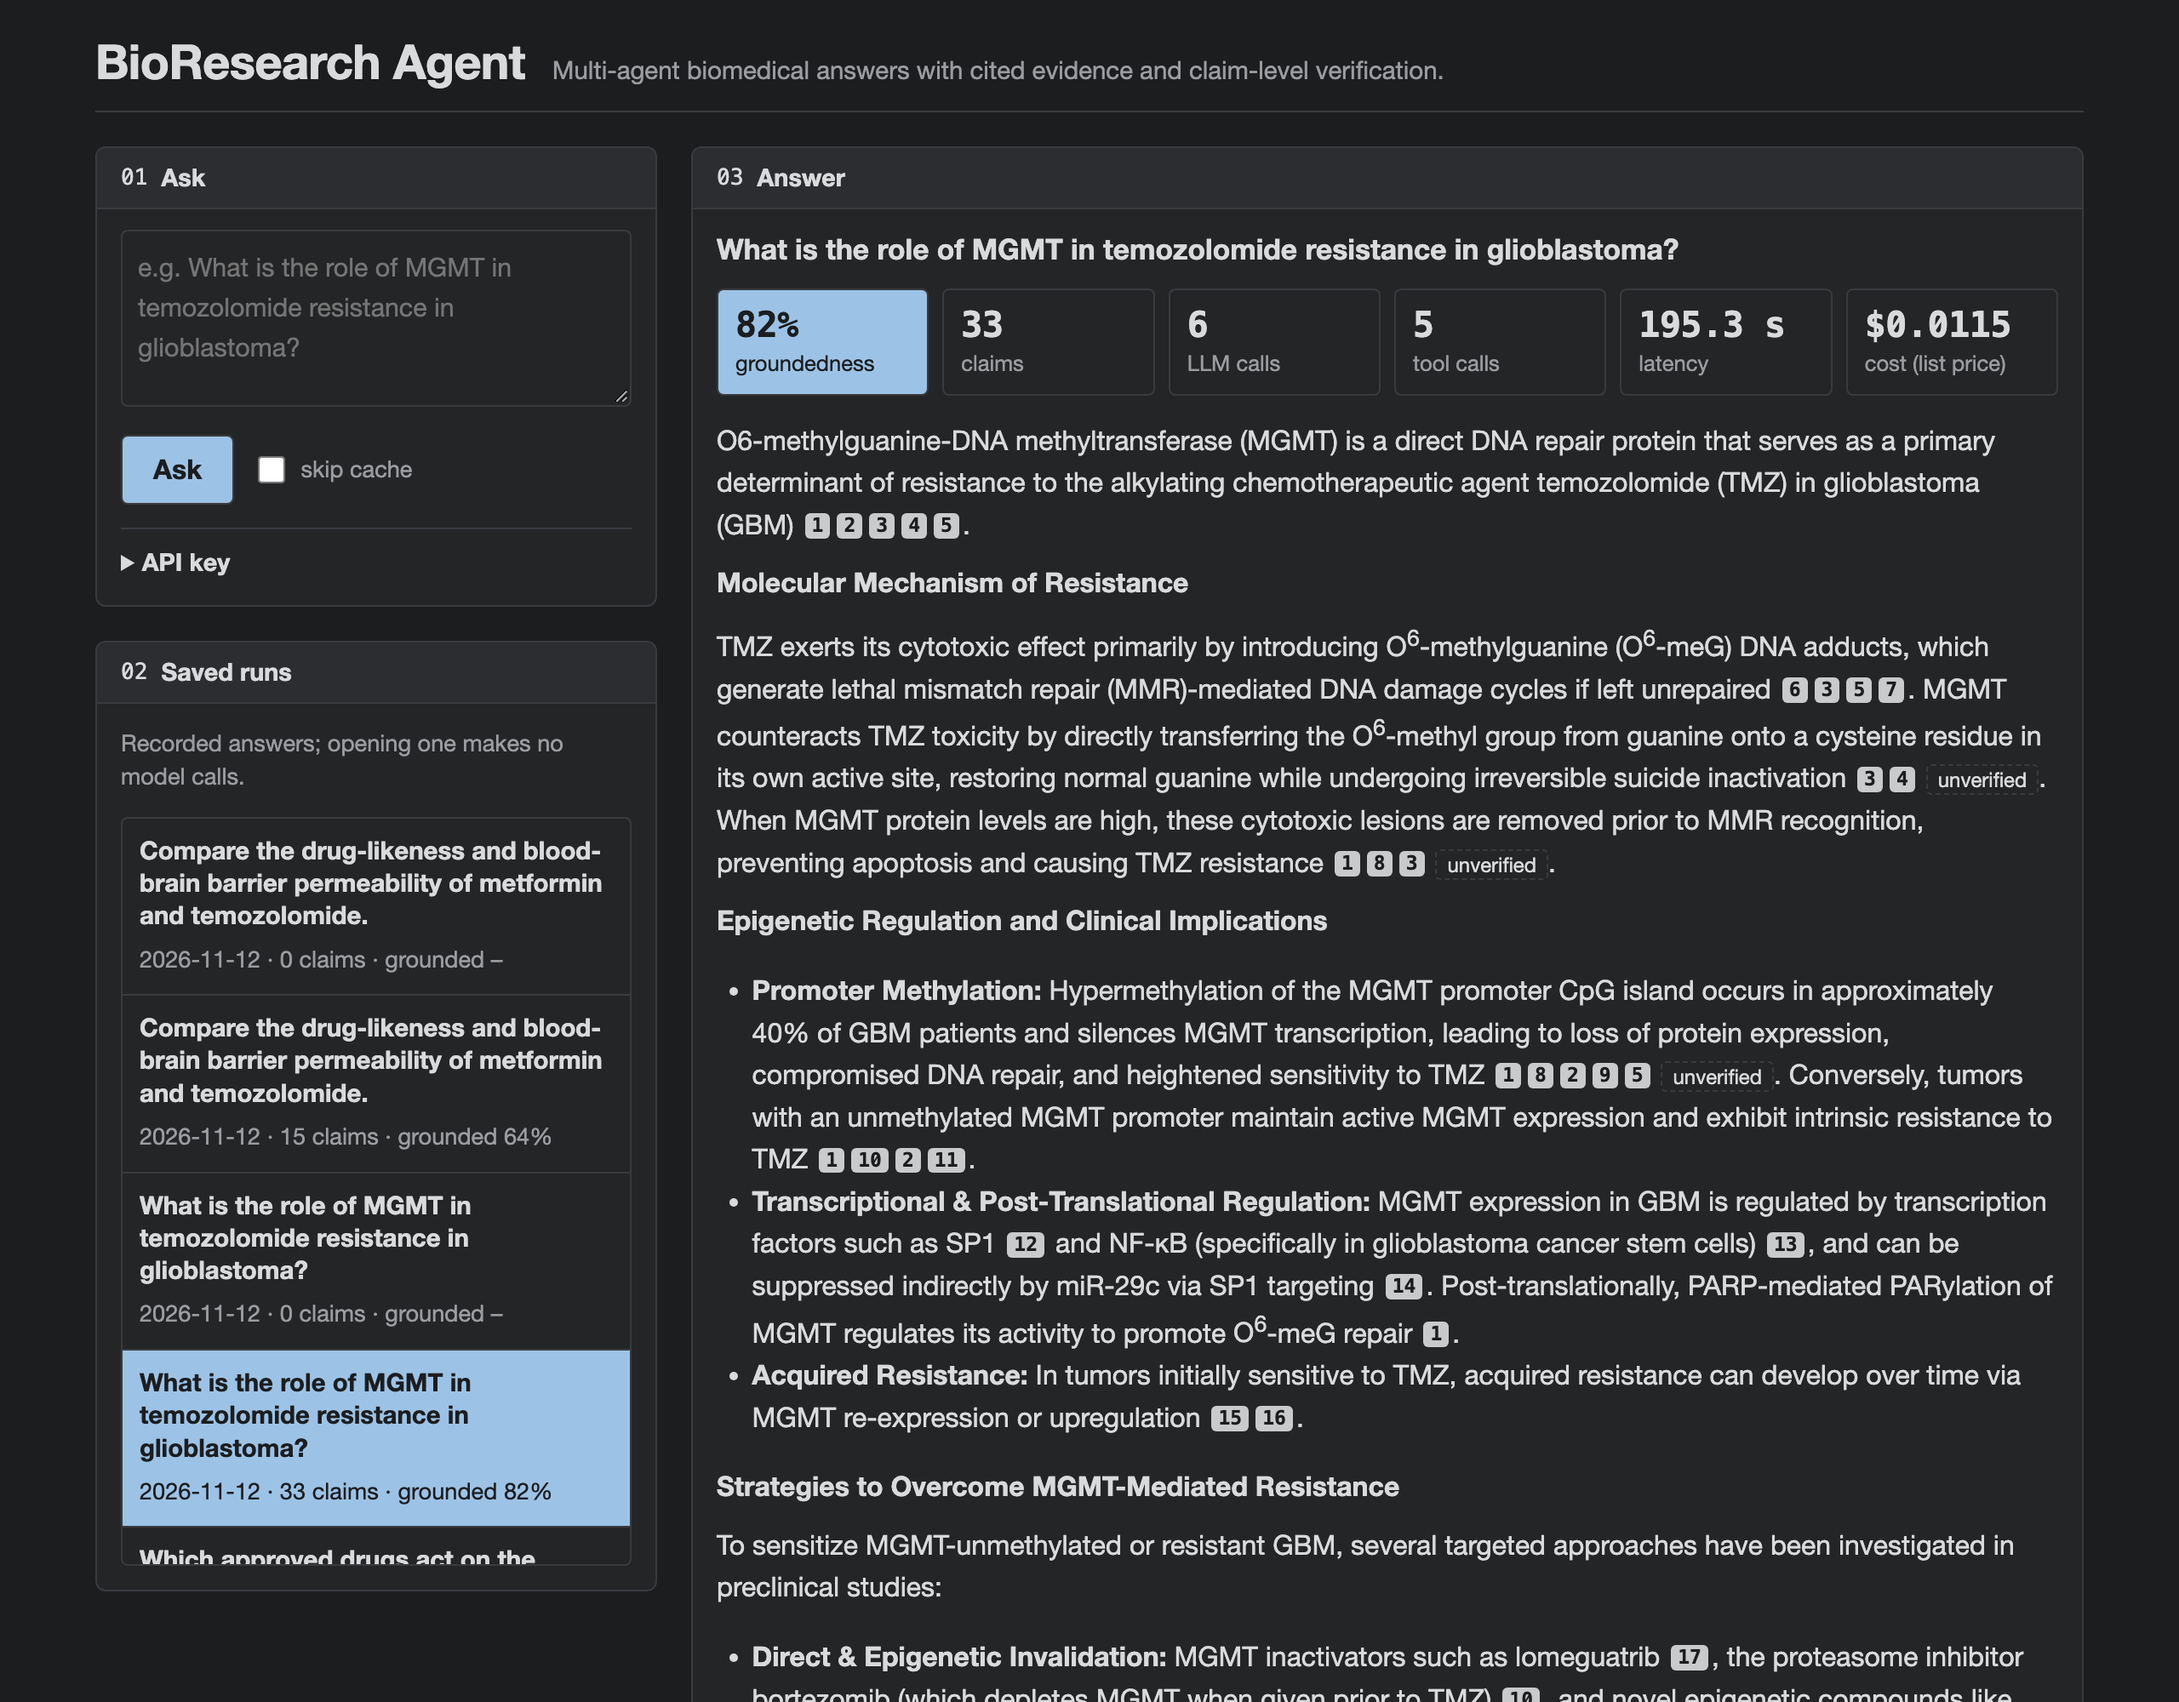
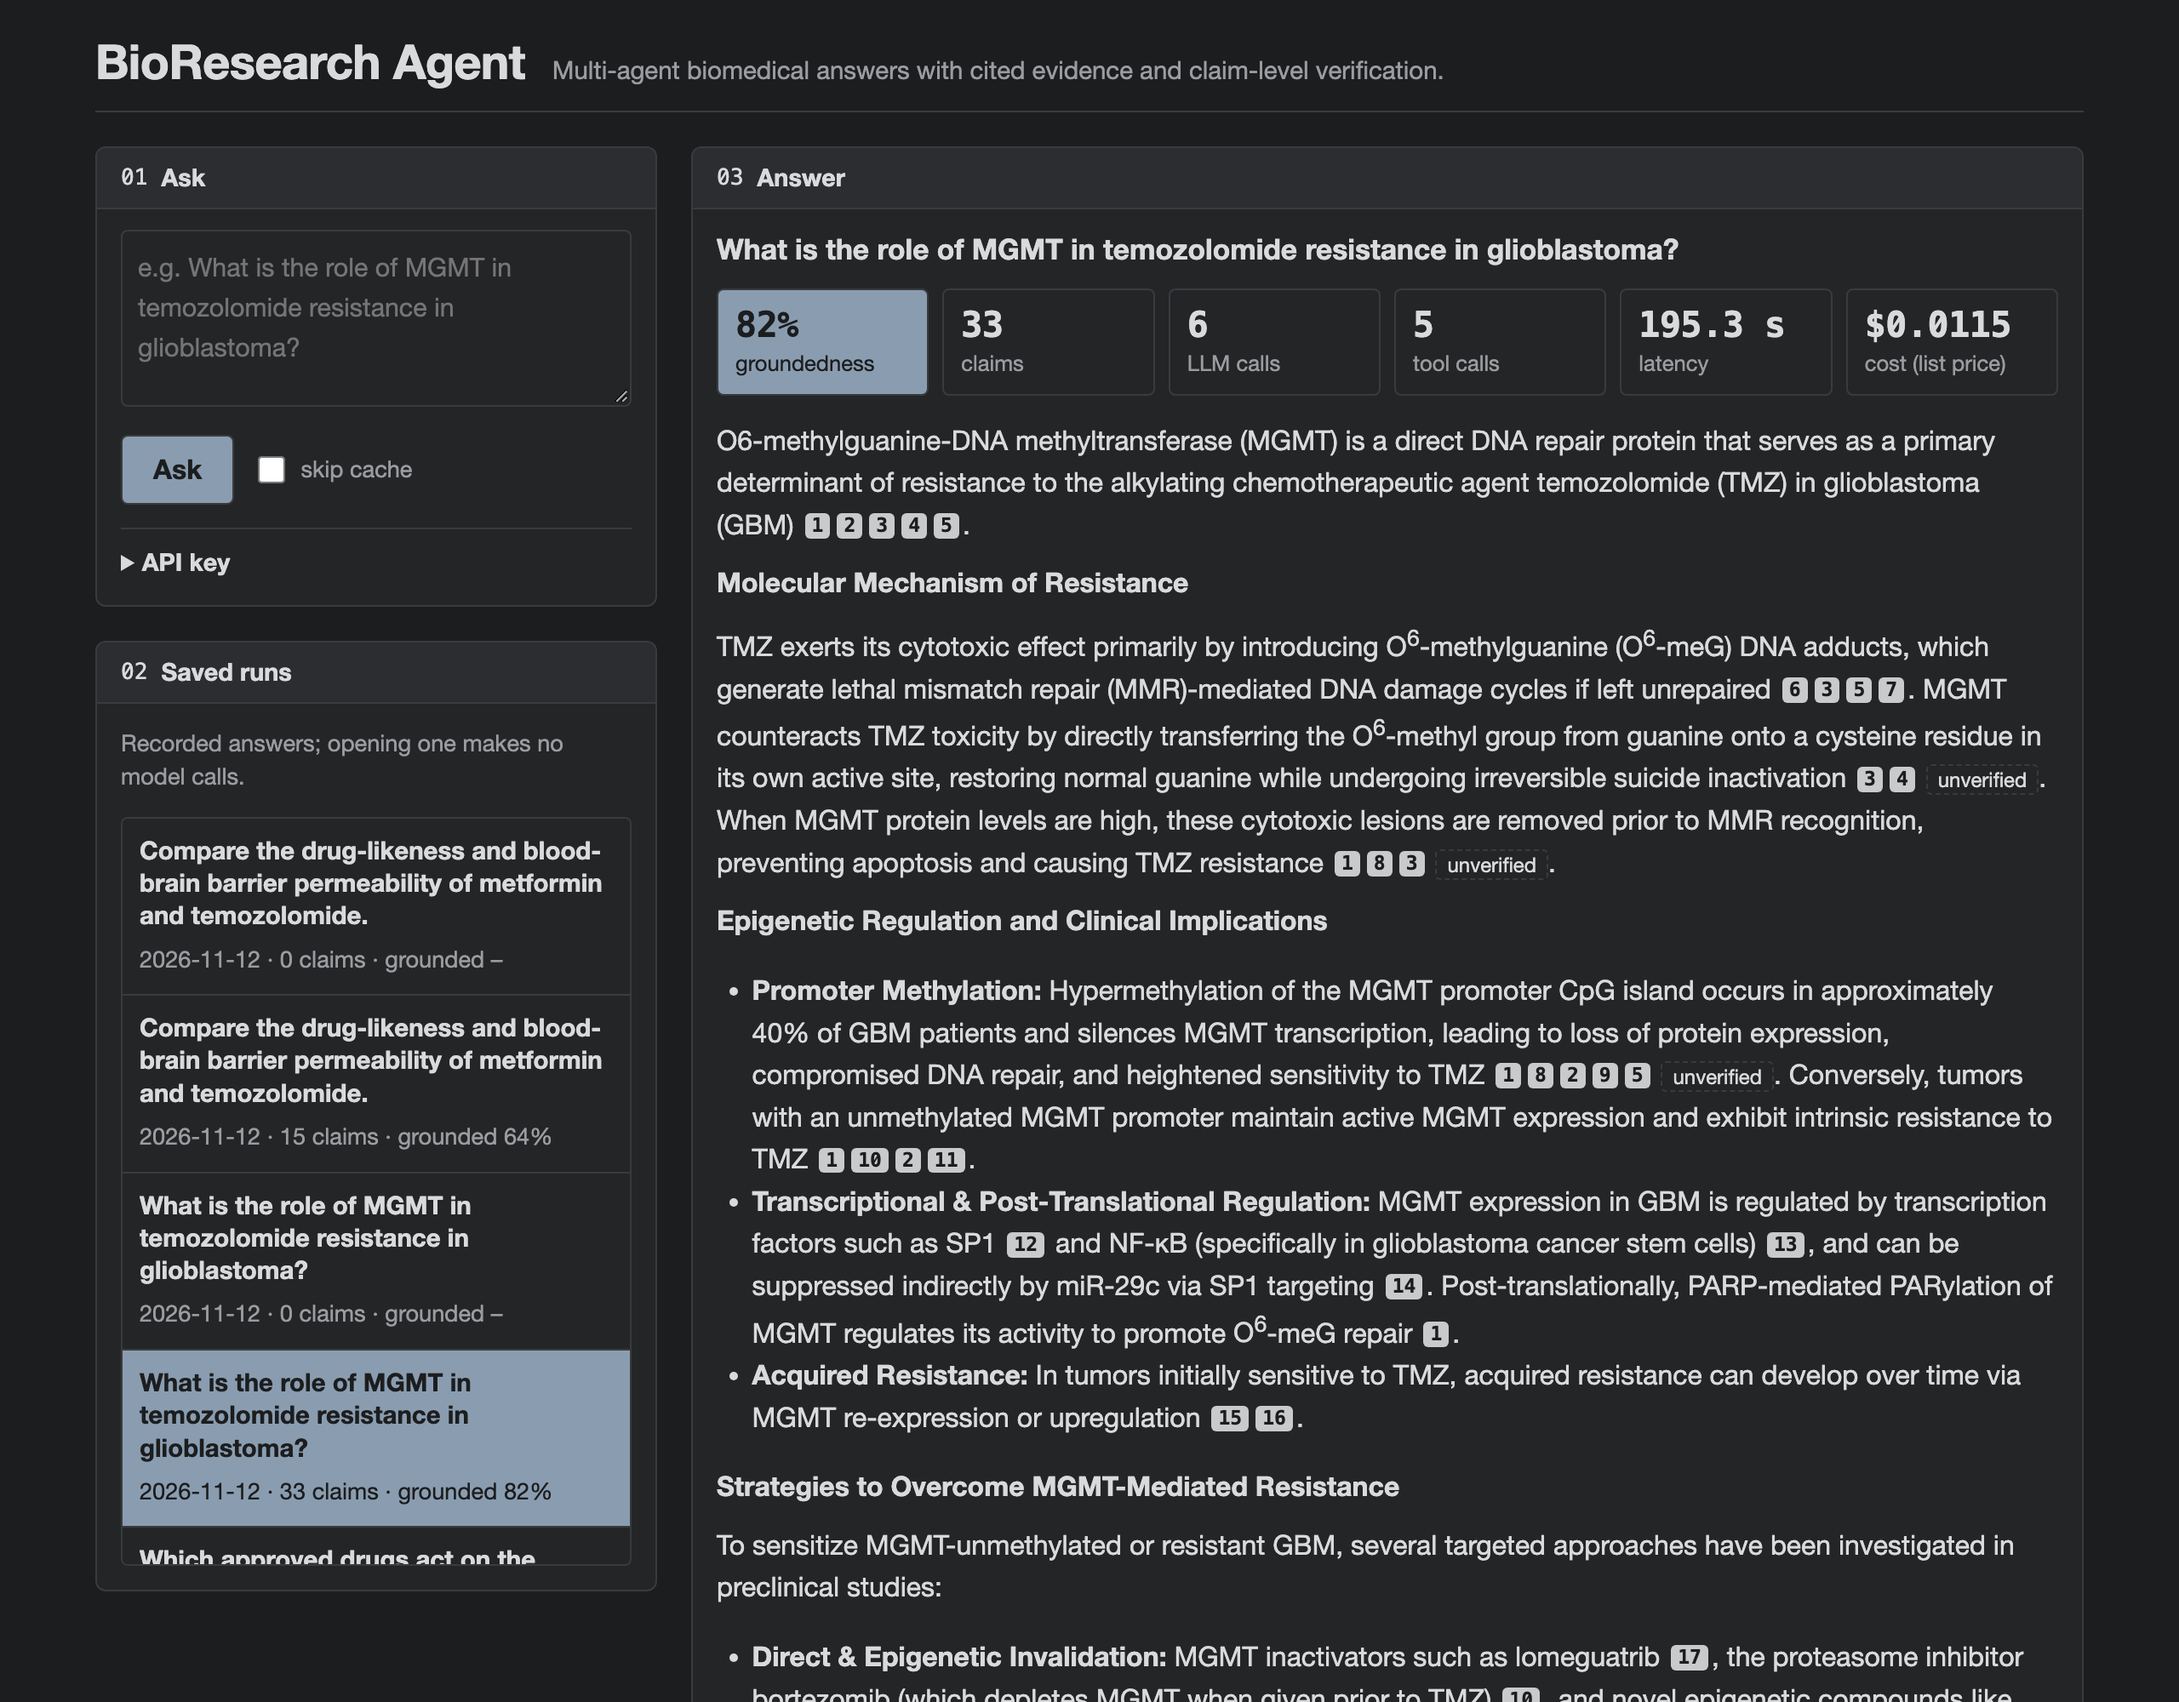
Web UI: grey-blue accent in dark mode
Dark mode's accent goes from light blue #9cc3e6 to a muted grey-blue #8a9db0 (Ask button,
selected run, groundedness cell, active tab, evidence highlight, supported badge, focus
ring). Dark text #1c1d1f on it 6.05:1; against the #242527 panels 5.5:1. Light mode is
unchanged (pixel-identical); ui-claims-dark.png regenerated.

Changed region(s): [[0.0312, 0.775, 0.3125, 0.899], [0.3125, 0.155, 0.4375, 0.248], [0.0312, 0.248, 0.125, 0.31]]

diff --git a/src/bioagent/serve/static/index.html b/src/bioagent/serve/static/index.html
@@ -22,7 +22,7 @@
 @media (prefers-color-scheme:dark){:root{
   /* dark mode: greys instead of pure black/white, a softer light blue, dark text on light fills */
   --dk-bg:#1c1d1f;--dk-panel:#242527;--dk-plate:#2c2d30;--dk-fg:#d9dadc;--dk-muted:#9a9ca0;
-  --dk-line:#3a3b3f;--dk-chip:#c9cacc;--dk-blue:#9cc3e6;
+  --dk-line:#3a3b3f;--dk-chip:#c9cacc;--dk-blue:#8a9db0;
   --bg:var(--dk-bg);--panel:var(--dk-panel);--surface:var(--dk-panel);
   --fg:var(--dk-fg);--muted:var(--dk-muted);--line:var(--dk-line);--rule:var(--dk-line);
   --acc:var(--dk-blue);--on-acc:var(--dk-bg);--sel:var(--dk-blue);--on-sel:var(--dk-bg);
